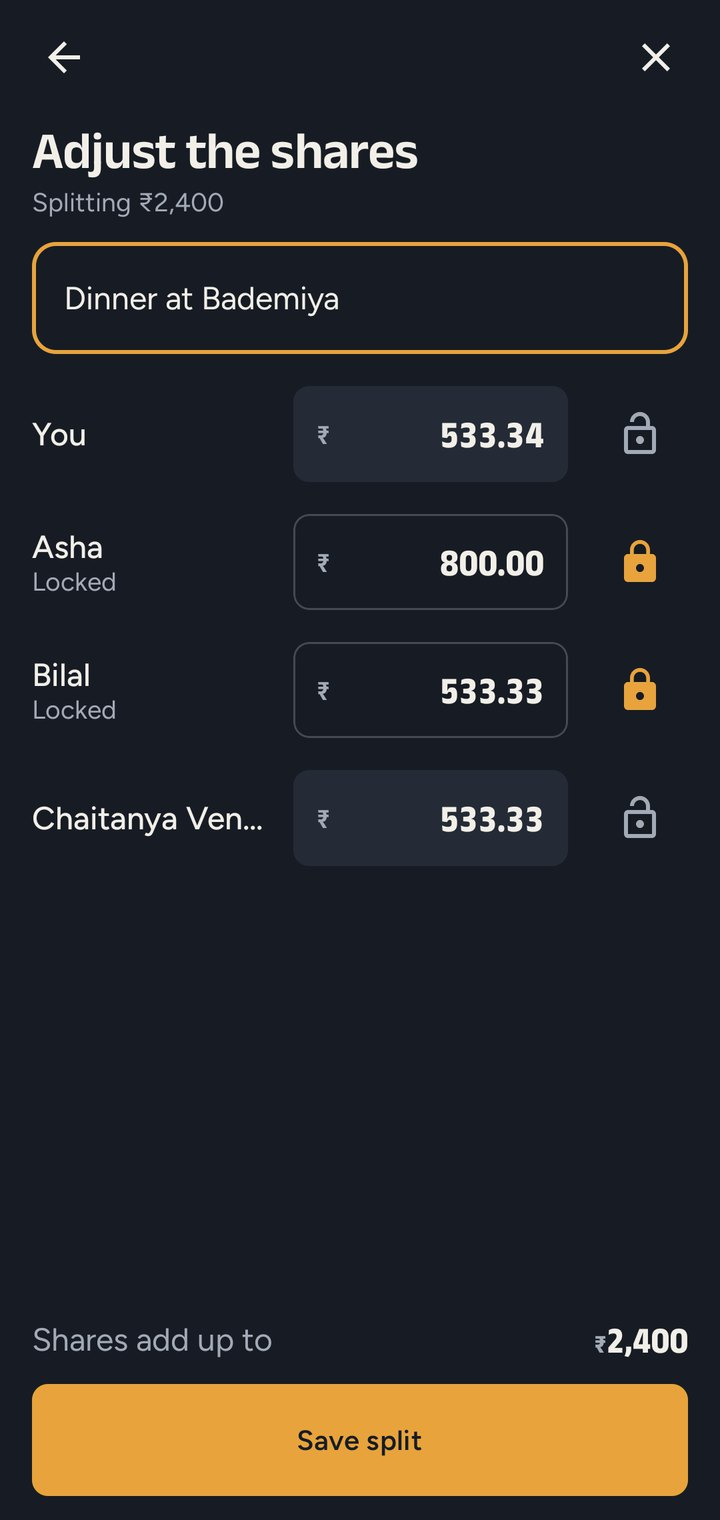
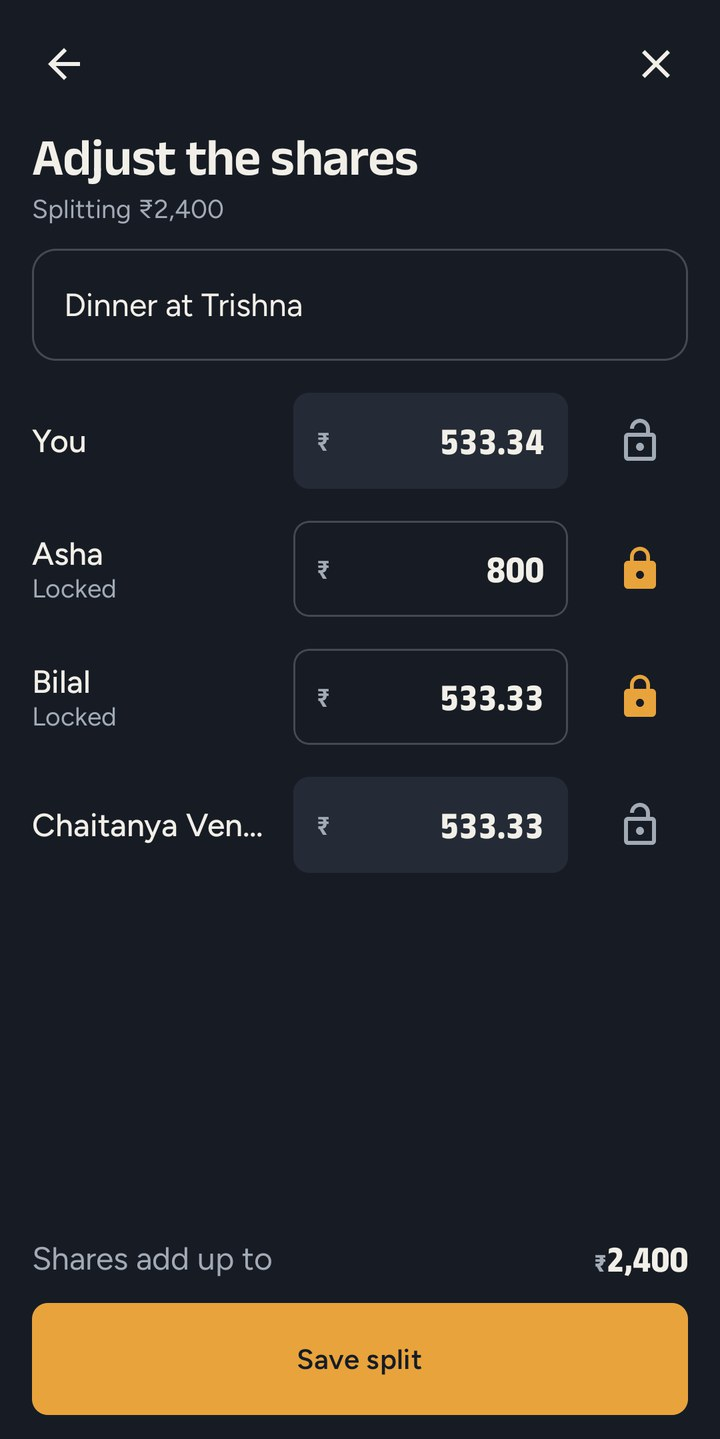
docs: new screenshots from the phone
Balances in Paper, a four-way split with two locked shares in Midnight, and a group in
Amoled, captured from the current build on a phone with sample data, the status and
navigation bars cropped off. The alt text says what each one shows, figures included, and the
group caption says groups are kept apart from balances.

diff --git a/README.md b/README.md
@@ -19,9 +19,9 @@
 
 <table>
 <tr>
-<td align="center" width="33%"><img src="docs/screenshots/balances.jpeg" width="235" alt="Balances screen in the Paper theme. Overall, plus ₹13,505.50 and plus $1,050.25 on separate lines above a double rule, then four people: Asha owes you ₹1,200, you owe Bilal ₹40, Chaitanya owes you ₹12,345.50, Diego owes you $1,050.25"><br><sub><b>Balances</b><br>one figure per currency, never summed</sub></td>
-<td align="center" width="33%"><img src="docs/screenshots/split.jpeg" width="235" alt="Adjust the shares screen in the Midnight theme, splitting ₹2,400 for dinner four ways. Asha is locked at ₹800 and Bilal at ₹533.33; you and Chaitanya take up the rest, and the shares add up to ₹2,400"><br><sub><b>Split</b><br>edit one share, the rest redistribute</sub></td>
-<td align="center" width="33%"><img src="docs/screenshots/groups.jpeg" width="235" alt="Group screen for Goa, October in the Amoled theme: four members and three expenses. Who pays whom lists three payments to you, above where everyone stands"><br><sub><b>Groups</b><br>a trip, in one of six themes</sub></td>
+<td align="center" width="33%"><img src="docs/screenshots/balances.jpeg" width="235" alt="Balances screen in the Paper theme. Overall, owed to you ₹13,505.50 and $1,050.25 on separate lines above a double rule, then four people: Asha owes you ₹1,200, you owe Bilal ₹40, Chaitanya owes you ₹12,345.50, Diego owes you $1,050.25. Add a person and Split an expense sit at the foot"><br><sub><b>Balances</b><br>one figure per currency, never summed</sub></td>
+<td align="center" width="33%"><img src="docs/screenshots/split.jpeg" width="235" alt="Adjust the shares screen in the Midnight theme, splitting ₹2,400 for dinner at Trishna four ways. Asha is locked at ₹800 and Bilal at ₹533.33; you take ₹533.34 and Chaitanya ₹533.33, and the shares add up to ₹2,400"><br><sub><b>Split</b><br>edit one share, the rest redistribute</sub></td>
+<td align="center" width="33%"><img src="docs/screenshots/groups.jpeg" width="235" alt="Group screen for Goa, October in the Amoled theme: four members and three expenses. Who pays whom lists three payments to you, from Bilal, Asha and Chaitanya, with fewest payments on, above where everyone stands"><br><sub><b>Groups</b><br>a trip, kept apart from your balances</sub></td>
 </tr>
 </table>
 
